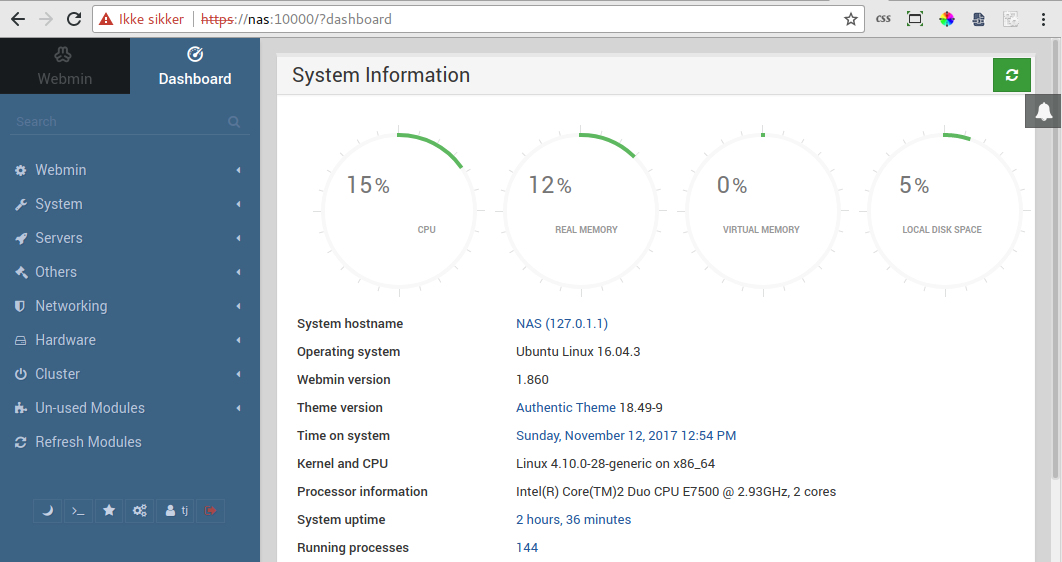
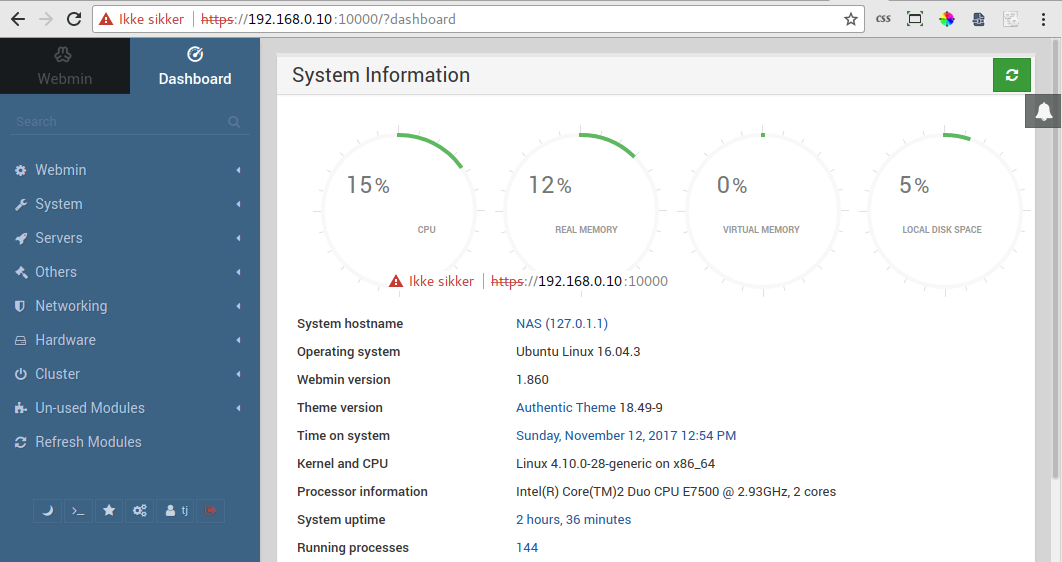
1

Changed region(s): [[0.2175, 0.0, 0.435, 0.0605], [0.3729, 0.484, 0.6215, 0.5142]]

diff --git a/guides/ubuntu_NAS_konfiguration.html b/guides/ubuntu_NAS_konfiguration.html
@@ -268,11 +268,9 @@ tj@tj-desktop:~$
 
 <p>Hvis du vil overbevise dig selv så prøv at give test tilladelse:</p>
 
-<h1>Webmin</h1>
+<h1>Webserver</h1>
 
-<p>Webmin er et web-interface der kan bruges til at administrere din NAS server. For at installere skal vi først have installereret <abbr title="Linux Apache MySQL PHP">LAMP</abbr>, som er en komplet webserverløsning til Linux.</p>
-
-<h2>Installer LAMP</h2>
+<p>For at kunne tilgå vores server fra en browser skal vi først have installereret <abbr title="Linux Apache MySQL PHP">LAMP</abbr>, som er en komplet webserverløsning til Linux.</p>
 
 <code class="cmd">sudo tasksel install lamp-server</code>
 
@@ -280,9 +278,9 @@ tj@tj-desktop:~$
 
 <figure id="">
 
-	<img class="p20" src="images/High-contrast-camera-photo.svg" alt="" title="" />
+	<img class="p90" src="images/VirtualBox_Ubuntu NAS_65.png" alt="" title="" />
 
-	<figcaption>VirtualBox_Ubuntu NAS_65.png</figcaption>
+	<figcaption></figcaption>
 
 </figure>
 
@@ -298,7 +296,7 @@ tj@tj-desktop:~$
 
 <p>Det du ser er en testside der viser at LAMP-serveren er blevet installeret korrekt.</p>
 
-<h2>Installer WebMin</h2>
+<h1>Installer WebMin</h1>
 
 <p>Webmin bliver af forskellige årsager ikke tilbudt ved hjælp af de normale repositories. Derfor skal vi lave lidt indledende arbejde selv (brug samme metode som ovenfor)</p>
 
@@ -316,7 +314,7 @@ tj@tj-desktop:~$
 <ul class="fat_li none">
 	<li>Tilføj følgende linie i bunden af <span class="inl_cmd">/etc/apt/sources.list</span></li>
 	
-		<code class="cmd"># Webmin repository <br/> deb https://download.webmin.com/download/repository sarge contrib</code>
+		<code class="cmd"># Webmin repository <br/>deb https://download.webmin.com/download/repository sarge contrib</code>
 	
 	<li>Tilføj GPG-nøgle</li>
 	
@@ -364,7 +362,7 @@ to run commands as root.
 
 </figure>
 
-<p>Vælg: <span class="inl_cmd">Fortsæt til nas (usikkert)</span>. </p>
+<p>Vælg: <span class="inl_cmd">Fortsæt til 192.168.0.10 (usikkert)</span>. </p>
 
 <figure id="">
 
